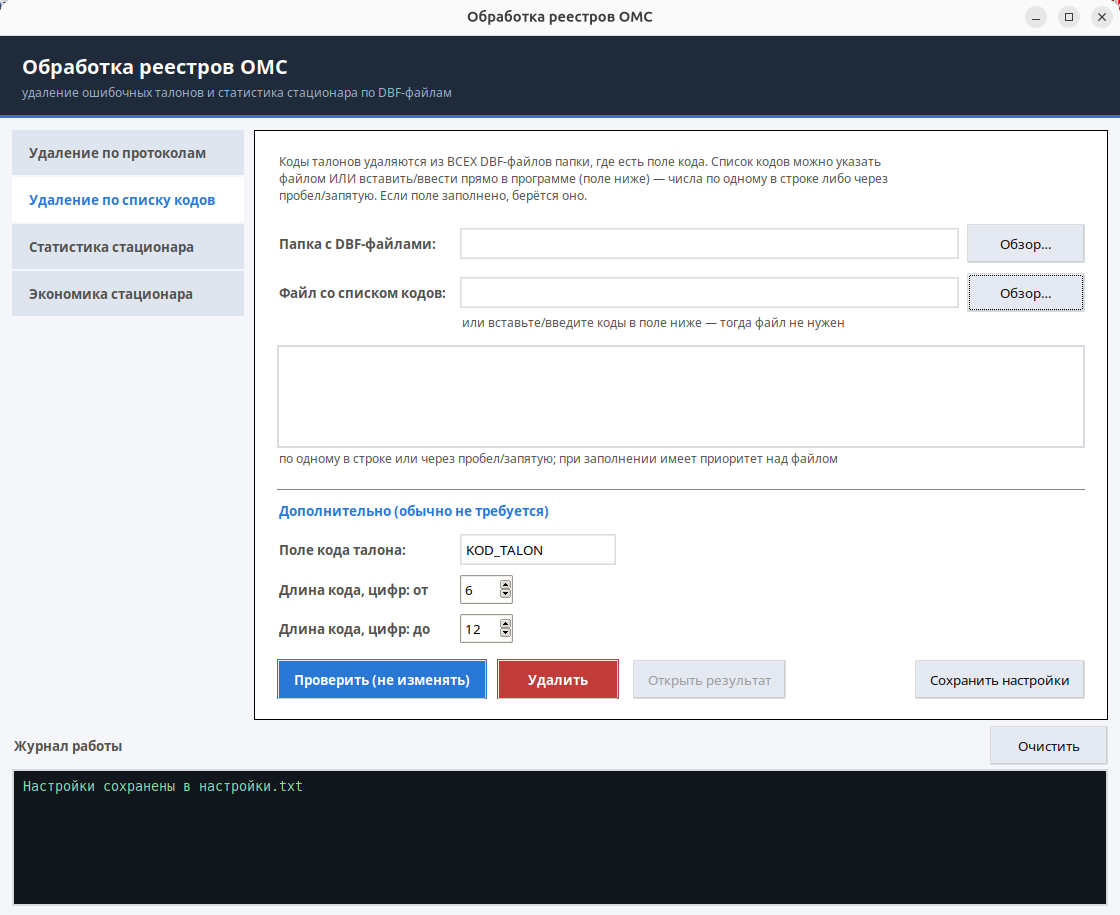
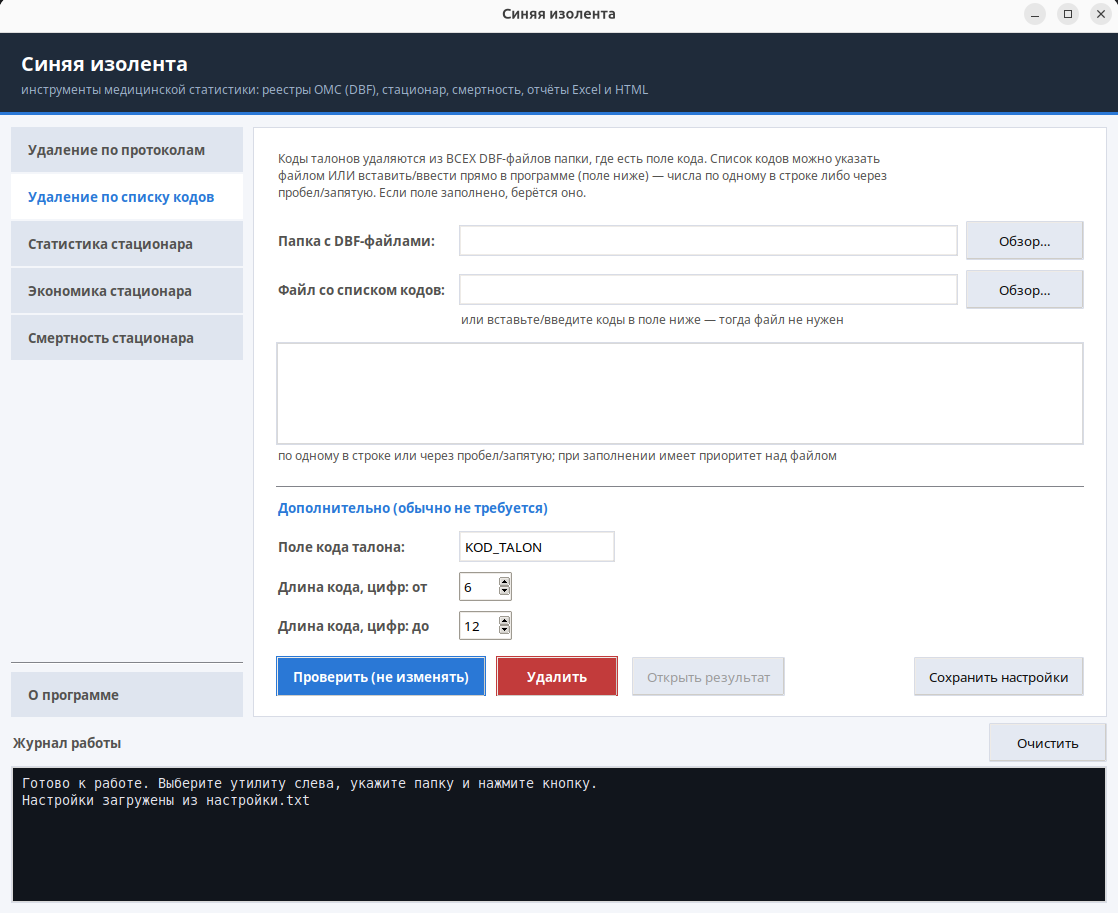
feat: обновление README.md и добавление новых скриншотов для утилит

diff --git a/README.md b/README.md
@@ -1,4 +1,4 @@
-<img src="src/omsreg/gui/assets/icon.png" width="96" alt="duct-tape — синяя изолента">
+<img src="src/omsreg/gui/assets/icon.png" width="96" alt="Синяя изолента">
 
 # Синяя изолента — инструменты медицинской статистики
 
@@ -33,6 +33,8 @@
 | ![Удаление по протоколам](docs/screenshots/talons.png) | ![Удаление по списку кодов](docs/screenshots/codes.png) |
 | **Статистика стационара** | **Экономика стационара** |
 | ![Статистика стационара](docs/screenshots/stat.png) | ![Экономика стационара](docs/screenshots/economics.png) |
+| **Смертность стационара** | **О программе и обновление** |
+| ![Смертность стационара](docs/screenshots/deaths.png) | ![О программе](docs/screenshots/about.png) |
 
 Общие свойства обеих утилит удаления:
 
